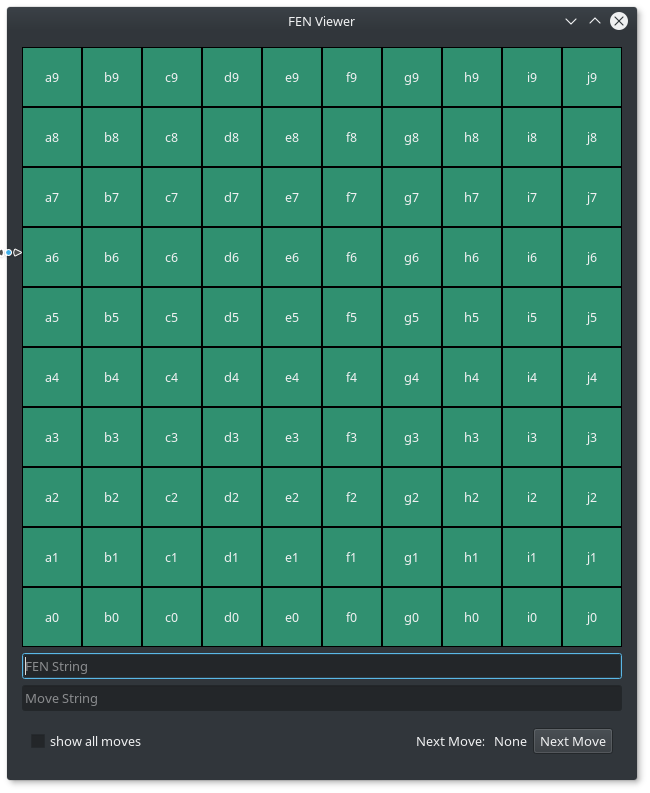
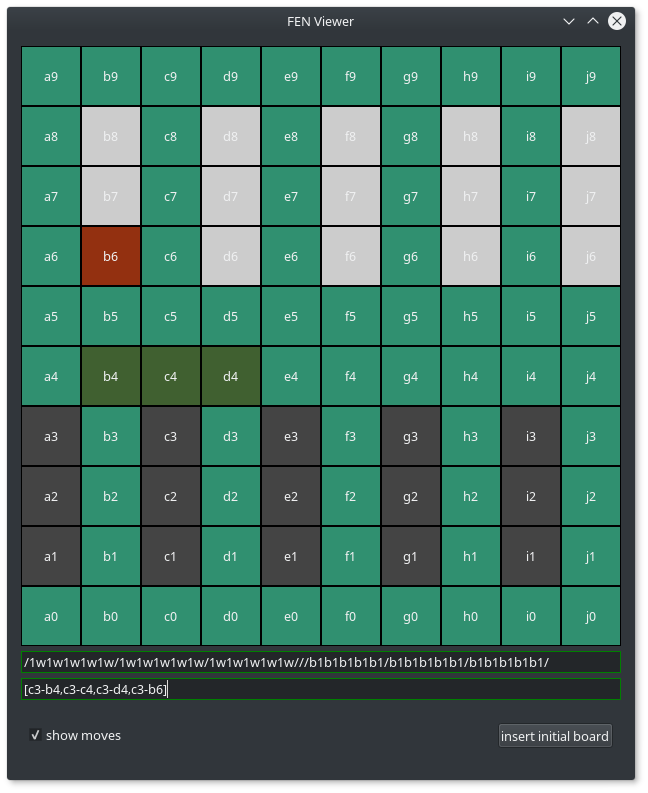
removed the ability to show every move step by step | only possible to show every move which is now working correctly and can be resetted

diff --git a/main.py b/main.py
@@ -16,7 +16,8 @@ class FenViewer(QWidget, Ui_FenViewer):
     BLACKTOWN = "#000000"
     NEUTRAL = "#309070"
 
-    MOVETO = "#401010"
+    MOVETO = "#406030"
+    MOVEHIT = "#933010"
     MOVEFROM = "#104010"
 
     def __init__(self):
@@ -38,6 +39,8 @@ class FenViewer(QWidget, Ui_FenViewer):
         # Connect Signals
         self.le_fen_string.textEdited.connect(self.on_le_fen_string_edited)
         self.le_move_string.textEdited.connect(self.on_le_move_string_edited)
+        self.cb_show_all_moves.stateChanged.connect(self.on_cb_show_all_moves)
+        self.pb_insert_default_board.pressed.connect(self.on_pb_insert_initial_board)
 
         self.setup_matrices()
         self.setup_board_labels()
@@ -50,7 +53,7 @@ class FenViewer(QWidget, Ui_FenViewer):
             for x in range(self.BOARD_WIDTH):
                 self.board[y].append(None)
                 self.board_colors[y].append(self.NEUTRAL)
-                self.board_move_colors[y].append(self.NEUTRAL)
+                self.board_move_colors[y].append(None)
 
     def setup_board_labels(self):
         for y in range(self.BOARD_HEIGHT):
@@ -71,14 +74,19 @@ class FenViewer(QWidget, Ui_FenViewer):
                 self.board_colors[x][y] = self.figure_color[char]
 
     def update_fields_from_moves(self):
-        #print(self.current_moves_to_display)
-        for move in self.current_moves_to_display:
-            coord = self._get_coordinates(move)
-            from_ = coord[0]
-            to_ = coord[1]
+        for move in self.all_moves:
+            if move:
+                coord = self._get_coordinates(move)
+                to = coord[1]
 
-            self.board_move_colors[from_[0]][from_[1]] = self.MOVEFROM
-            self.board_move_colors[to_[0]][to_[1]] = self.MOVETO
+                color = self.board_colors[to[0]][to[1]]
+
+                self.board_move_colors[to[0]][to[1]] = self.MOVETO if color == self.NEUTRAL else self.MOVEHIT
+
+    def flush_fields_from_moves(self):
+        for y in range(self.BOARD_HEIGHT):
+            for x in range(self.BOARD_WIDTH):
+                self.board_move_colors[x][y] = None
 
 # Parser
     def isFEN(self, fen_string):
@@ -112,29 +120,25 @@ class FenViewer(QWidget, Ui_FenViewer):
     def ui_was_wrong_fen(self):
         self.le_fen_string.setStyleSheet("border: 1px solid red;")
 
+    def ui_was_correct_move(self):
+        self.le_move_string.setStyleSheet("border: 1px solid green;")
+
+    def ui_was_wrong_move(self):
+        self.le_move_string.setStyleSheet("border: 1px solid red;")
+
     def ui_update_labels(self):
         for y in range(self.BOARD_HEIGHT):
             for x in range(self.BOARD_WIDTH):
                 label = self.board[x][y]
                 label.setStyleSheet("border: 1px solid black; background-color: {0}".format(self.board_colors[x][y]))
 
-    def ui_update_next_move(self):
-        if not len(self.all_moves) > 0:
-            self.l_next_move.setText("Empty")
-        else:
-            self.l_next_move.setText(self.all_moves[0])
-
-    def ui_next_move_not_valid(self):
-        self.l_next_move.setText("Not Valid")
-
-    def ui_next_move_deactivated(self):
-        self.l_next_move.setText("X")
-
     def ui_update_move_labels(self):
         for y in range(self.BOARD_HEIGHT):
             for x in range(self.BOARD_WIDTH):
                 label = self.board[x][y]
-                label.setStyleSheet("border: 1px solid black; background-color: {0}".format(self.board_move_colors[x][y]))
+                color = self.board_move_colors[x][y]
+                if color:
+                    label.setStyleSheet("border: 1px solid black; background-color: {0}".format(color))
 
     def ui_clear_labels(self):
         for y in range(self.BOARD_HEIGHT):
@@ -144,10 +148,10 @@ class FenViewer(QWidget, Ui_FenViewer):
                     "border: 1px solid black; background-color: {0}".format(self.NEUTRAL))
 
     def ui_update_all(self):
-        self.ui_clear_labels()
         self.ui_update_labels()
-        self.ui_update_move_labels()
 
+        if self.cb_show_all_moves.isChecked():
+            self.ui_update_move_labels()
 
     # Signal Functions
     def on_le_fen_string_edited(self, fen_string):
@@ -155,28 +159,37 @@ class FenViewer(QWidget, Ui_FenViewer):
         if is_correct:
             self.ui_was_correct_fen()
             self.update_fields_from_fen(pre_parsed_fen)
-            self.ui_update_labels()
+            if self.cb_show_all_moves.isChecked() and self.all_moves:
+                self.update_fields_from_moves()
+            self.ui_update_all()
         else:
             self.ui_was_wrong_fen()
 
     def on_le_move_string_edited(self, move_string):
         is_correct = self.isMoves(move_string)
         if is_correct:
-            self.ui_update_next_move()
+            self.flush_fields_from_moves()
+            self.all_moves = []
             self.all_moves = move_string[1:-1].split(",")
-            #print(self.all_moves)
-        else:
-            self.ui_next_move_not_valid()
-
-    def on_pb_next_move_pressed(self):
-        if len(self.all_moves) > 0:
-            next_move = self.all_moves.pop(0)
-            self.current_moves_to_display.append(next_move)
-
             self.update_fields_from_moves()
-            #self.ui_update_move_labels()
             self.ui_update_all()
-            self.current_moves_to_display = []
+            self.ui_was_correct_move()
+        else:
+            self.flush_fields_from_moves()
+            self.ui_update_all()
+            self.ui_was_wrong_move()
+
+    def on_pb_insert_initial_board(self):
[1 lines of base64/hex data omitted]
+        self.le_fen_string.setText(default_fen)
+        self.on_le_fen_string_edited(default_fen)
+
+    def on_cb_show_all_moves(self, checked):
+        if self.all_moves:
+            #self.flush_fields_from_moves()
+            self.ui_update_all()
+
+
 
 
 # Helpers

diff --git a/ui_fen_viewer.py b/ui_fen_viewer.py
@@ -2,7 +2,7 @@
 
 # Form implementation generated from reading ui file 'fen_viewer.ui'
 #
-# Created by: PyQt5 UI code generator 5.9.2
+# Created by: PyQt5 UI code generator 5.10
 #
 # WARNING! All changes made in this file will be lost!
 
@@ -46,15 +46,9 @@ class Ui_FenViewer(object):
         self.horizontalLayout.addWidget(self.cb_show_all_moves)
         spacerItem = QtWidgets.QSpacerItem(40, 20, QtWidgets.QSizePolicy.Expanding, QtWidgets.QSizePolicy.Minimum)
         self.horizontalLayout.addItem(spacerItem)
-        self.l_next_move_string = QtWidgets.QLabel(self.widget)
-        self.l_next_move_string.setObjectName("l_next_move_string")
-        self.horizontalLayout.addWidget(self.l_next_move_string)
-        self.l_next_move = QtWidgets.QLabel(self.widget)
-        self.l_next_move.setObjectName("l_next_move")
-        self.horizontalLayout.addWidget(self.l_next_move)
-        self.pb_next_move = QtWidgets.QPushButton(self.widget)
-        self.pb_next_move.setObjectName("pb_next_move")
-        self.horizontalLayout.addWidget(self.pb_next_move)
+        self.pb_insert_default_board = QtWidgets.QPushButton(self.widget)
+        self.pb_insert_default_board.setObjectName("pb_insert_default_board")
+        self.horizontalLayout.addWidget(self.pb_insert_default_board)
         self.verticalLayout.addWidget(self.widget)
 
         self.retranslateUi(FenViewer)
@@ -65,8 +59,6 @@ class Ui_FenViewer(object):
         FenViewer.setWindowTitle(_translate("FenViewer", "FEN Viewer"))
         self.le_fen_string.setPlaceholderText(_translate("FenViewer", "FEN String"))
         self.le_move_string.setPlaceholderText(_translate("FenViewer", "Move String"))
-        self.cb_show_all_moves.setText(_translate("FenViewer", "show all moves"))
-        self.l_next_move_string.setText(_translate("FenViewer", "Next Move: "))
-        self.l_next_move.setText(_translate("FenViewer", "None"))
-        self.pb_next_move.setText(_translate("FenViewer", "Next Move"))
+        self.cb_show_all_moves.setText(_translate("FenViewer", "show moves"))
+        self.pb_insert_default_board.setText(_translate("FenViewer", "insert initial board"))
 
